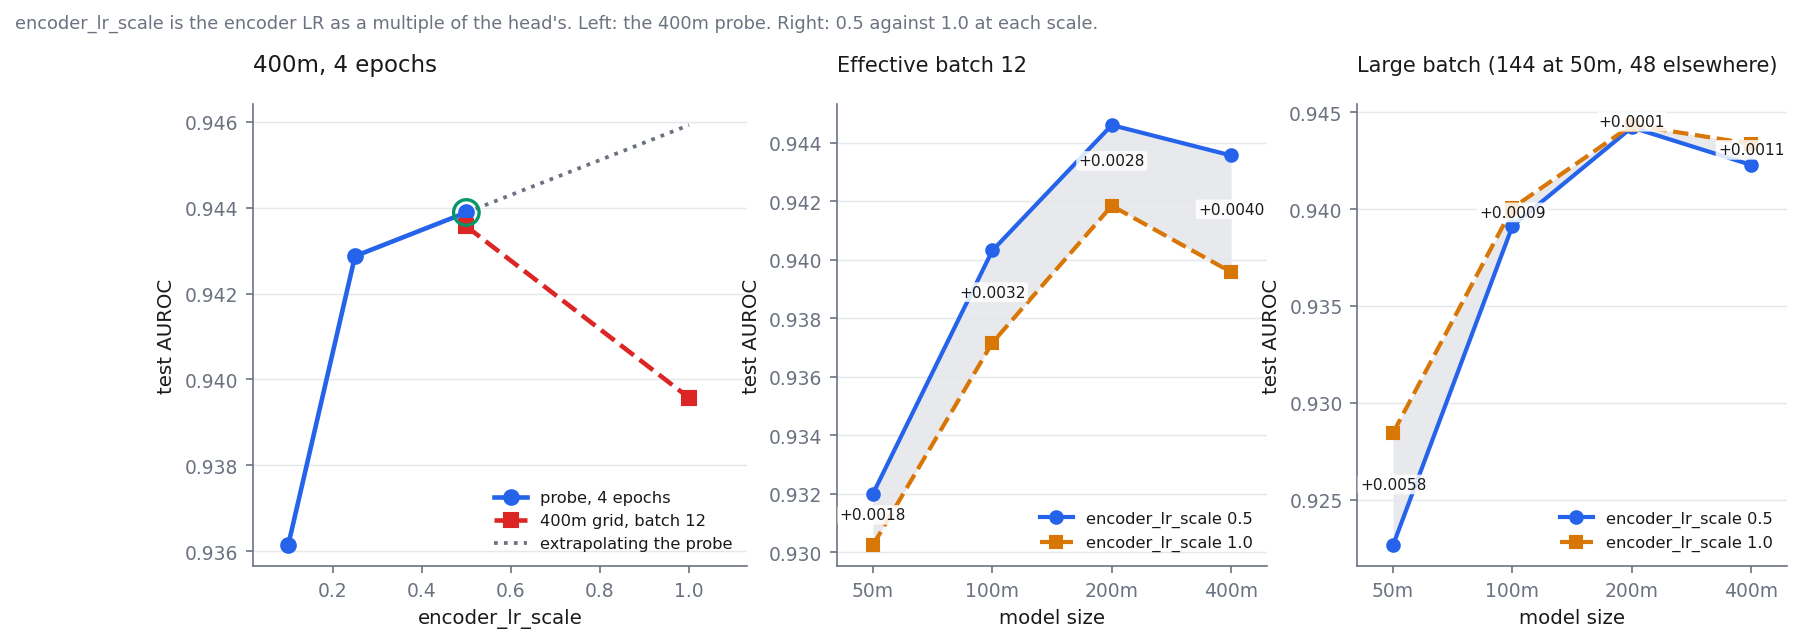
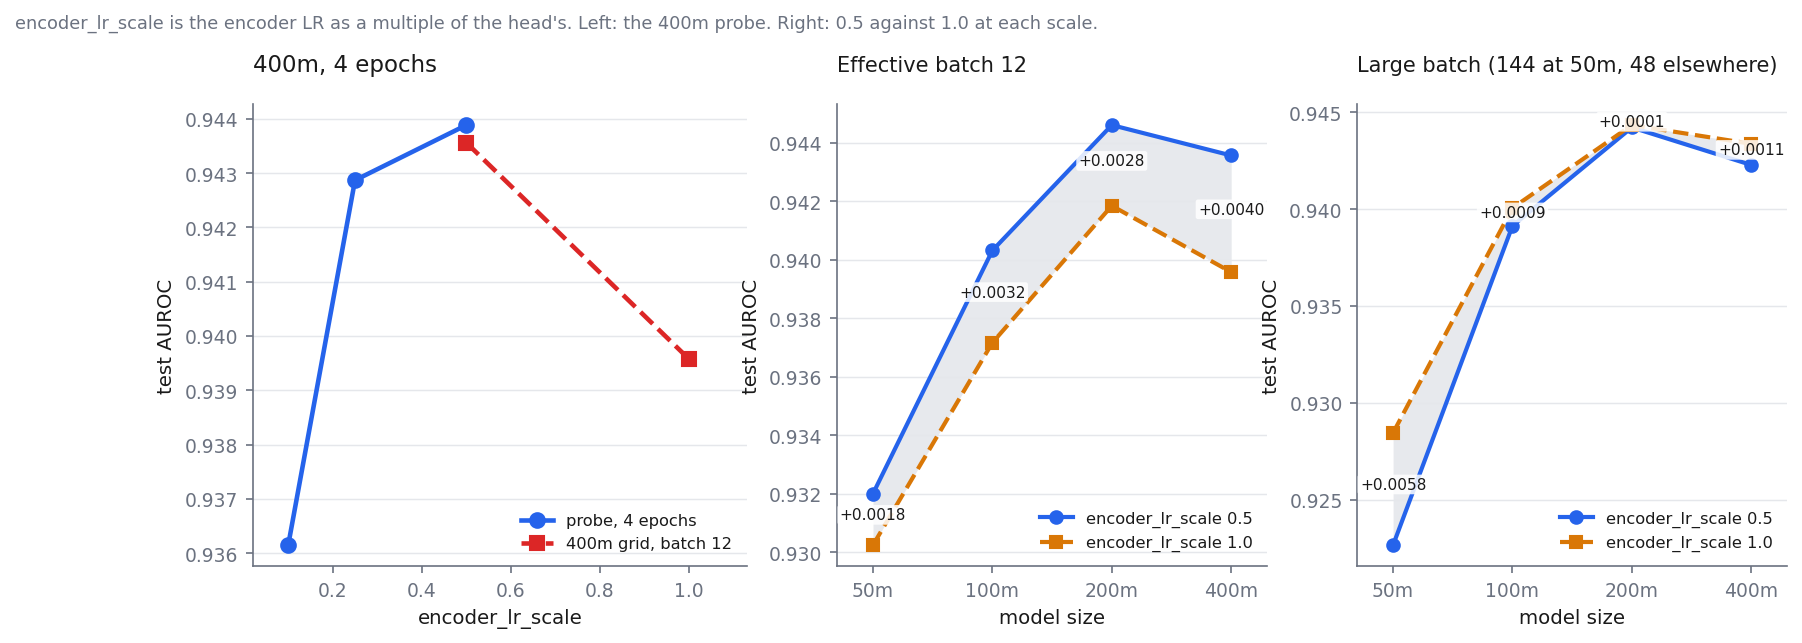
Drop the extrapolation from the encoder_lr_scale figure
The dotted line showed what assuming the probe's trend continued would have
predicted. It was there because that assumption had been made and was wrong.
With es 1.0 now measured at every scale and both batch regimes, it is a picture
of a mistake rather than of the data.

Claude-Session: https://claude.ai/code/session_01ATgkXx1oRRqvzB3G8wYeta

diff --git a/sweeps/plot_denoise.py b/sweeps/plot_denoise.py
@@ -165,6 +165,11 @@ def fig_encoder_lr(runs: Path) -> None:
     an earlier version showed. A difference makes the reader do arithmetic to find out
     which setting won, and it hid that the two grids use different large batches -- 144
     at 50m, 48 elsewhere -- so a shared "batch 48" series silently had no 50m point.
+
+    An earlier version also drew a dotted extrapolation from the probe's last two points
+    to show what assuming the trend continued would have predicted. That was there
+    because the assumption had been made and was wrong; with es 1.0 now measured at
+    every scale it is a picture of a mistake rather than of the data.
     """
     probe = load(runs, "8845252")
     G = {"50m": ("8840408", "lr2e4_es05_ep4_h512", "lr2e4_es10_ep4_h512", 12, 144),
@@ -188,13 +193,9 @@ def fig_encoder_lr(runs: Path) -> None:
     xs = [0.1, 0.25, 0.5]
     ys = [probe[f"es{k}_ep4"]["test_auroc"] for k in ("01", "025", "05")]
     g05, g10 = val("400m", "05", "small"), val("400m", "10", "small")
-    slope = ys[-1] - ys[-2]
     ax.plot(xs, ys, "o-", color=BLUE, lw=2.2, ms=7, zorder=4, label="probe, 4 epochs")
     ax.plot([0.5, 1.0], [g05, g10], "s--", color=RED, lw=2.2, ms=7, zorder=4,
             label="400m grid, batch 12")
-    ax.plot([0.5, 1.0], [ys[-1], ys[-1] + 2 * slope], ":", color=MUTED, lw=1.8,
-            zorder=2, label="extrapolating the probe")
-    ax.scatter([0.5], [ys[-1]], s=150, facecolor="none", edgecolor=GREEN, lw=1.6, zorder=5)
     ax.set_xlabel("encoder_lr_scale"); ax.set_ylabel("test AUROC")
     ax.set_title("400m, 4 epochs", loc="left", pad=16)
     ax.grid(axis="y"); ax.set_axisbelow(True); ax.set_xlim(0.02, 1.13)
